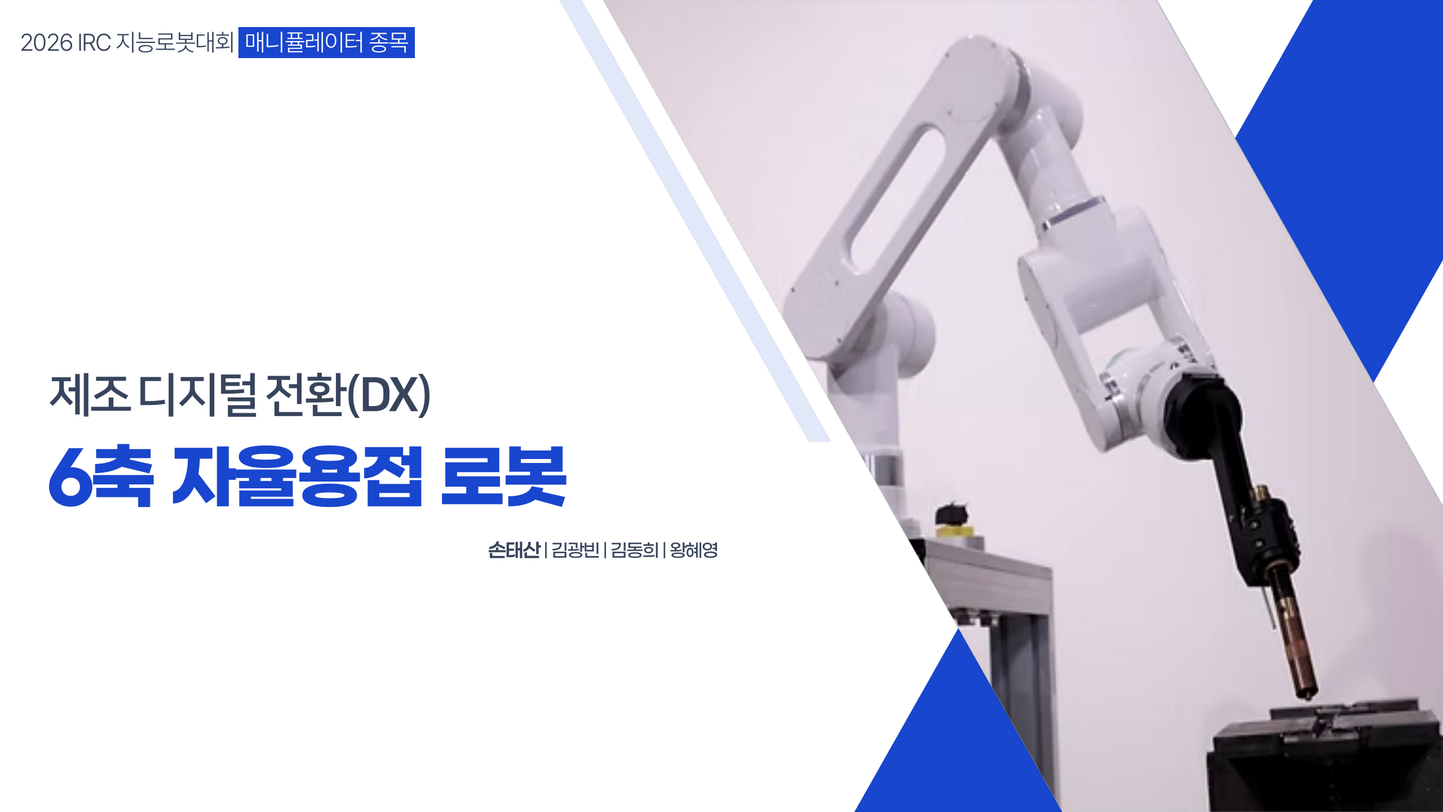
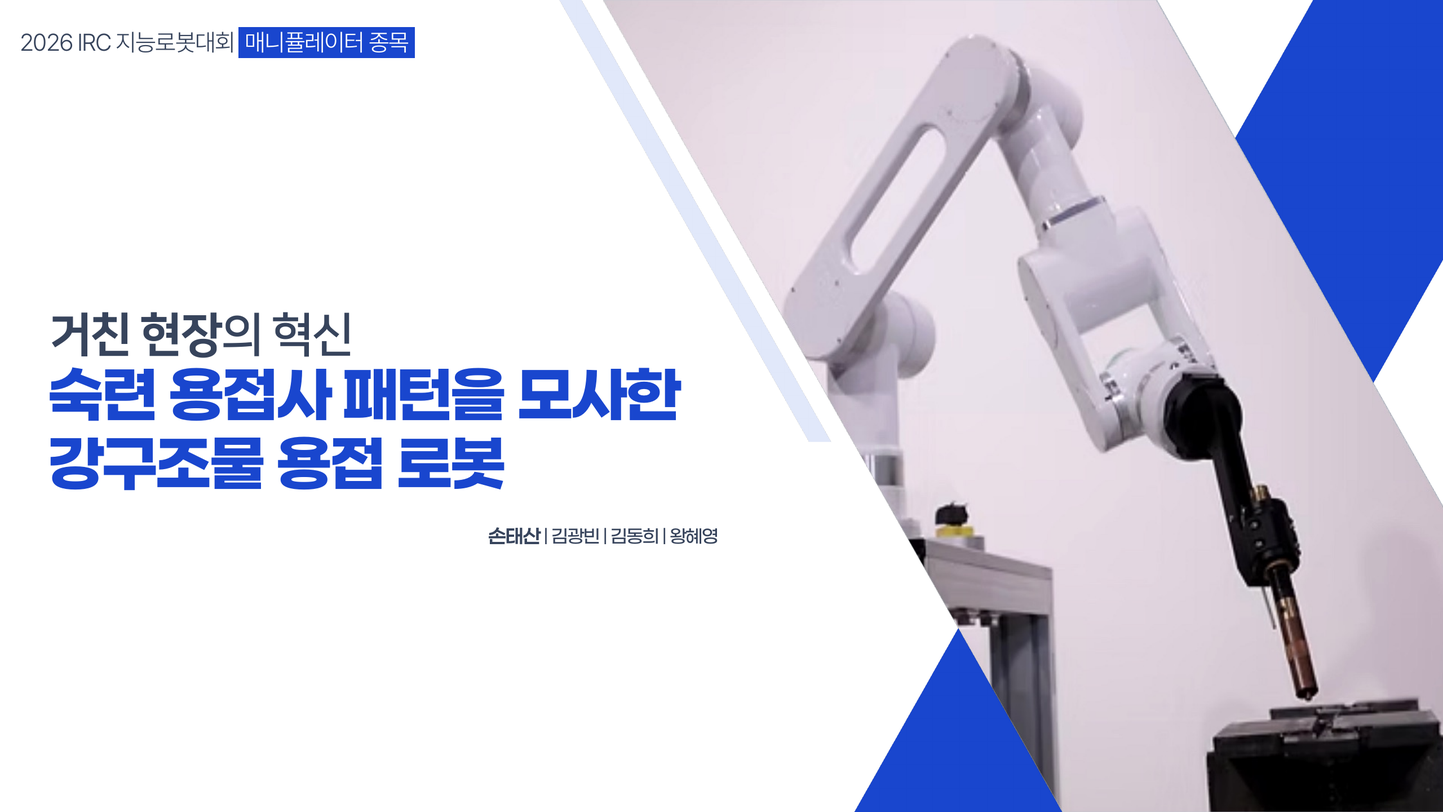
로봇 이름을 '숙련 용접사 패턴을 모사한 강구조물 용접 로봇'으로, 표지 문구를 '거친 현장의 혁신'으로
표지(1장)와 프로젝트 개요(3장) 그림, 두 페이지의 제목과 설명, 소개 페이지 첫 화면 제목을 바꿈.

Changed region(s): [[0.0312, 0.375, 0.4688, 0.625], [0.3125, 0.6562, 0.5, 0.6875]]

diff --git a/index.html b/index.html
@@ -3,7 +3,7 @@
 <head>
 <meta charset="utf-8">
 <meta name="viewport" content="width=device-width, initial-scale=1">
-<title>6축 자율용접 로봇 | 2026 IRC 지능로봇대회</title>
+<title>숙련 용접사 패턴을 모사한 강구조물 용접 로봇 | 2026 IRC 지능로봇대회</title>
 <style>
   html, body { margin: 0; height: 100%; background: #111; overflow: hidden; }
   body { font-family: -apple-system, "Apple SD Gothic Neo", sans-serif; }
@@ -49,58 +49,58 @@
 </head>
 <body>
 <main class="stage" id="stage">
-  <img class="slide" src="deck/final/01.png?v=11130955" alt="2026 IRC 지능로봇대회 매니퓰레이터 종목. 제조 디지털 전환(DX) 6축 자율용접 로봇. 손태산, 김광빈, 김동희, 왕혜영">
-  <img class="slide" src="deck/final/02.png?v=11130955" alt="목차" loading="lazy">
-  <img class="slide" src="deck/final/03.png?v=11130955" alt="1. 프로젝트 개요. 6축 자율용접 로봇. 왼쪽은 코너 시편의 용접선을 초록 레이저로 따라가는 로봇 사진" loading="lazy">
-  <img class="slide" src="deck/final/04.png?v=11130955" alt="2. 프로젝트 수행 배경: 정밀 특수공정 용접의 품질, 인력, 안전 위기. WPS 필수 제어 변수 20개 이상, 숙련 의존 정밀공정, 연령별 인력(20대 11만, 30대 27만, 40대 45만, 50대 65만, 60대 이상 46만), 용접사 평균 55세, 시공 부실과 안전 사고" loading="lazy">
-  <img class="slide" src="deck/final/05.png?v=11130955" alt="2. 프로젝트 수행 배경: 강재 적용 확대와 현장 용접 경쟁력. 고부가가치 강재 개발, 현장 용접과 시공성 확보, 적용 경쟁력 향상, 강재 적용시장 확대. 강교량 강주탑 단면도와 BOX, 강구조 건축 벽체 현장 용접 사진" loading="lazy">
-  <img class="slide" src="deck/final/06.png?v=11130955" alt="2. 프로젝트 수행 배경: 건설현장 자동 용접의 현재 기술. 수직 타워 레일식(상용화), 수평 타워 레일식(현장 적용), 원자력 압력배관 오비탈 용접(현장 적용), 수직 자동 TIG(개발 진행 중)" loading="lazy">
-  <img class="slide" src="deck/final/07.png?v=11130955" alt="2. 프로젝트 수행 배경: 센서 기반 적응형(Adaptive) 용접으로 발전. 레이저 센싱, 형상 측정, 경로 보정, 정밀 용접. 협동로봇과 레이저 센서, 레일식 수직 자동용접 현장 사진" loading="lazy">
-  <img class="slide" src="deck/final/08.png?v=11130955" alt="2. 프로젝트 수행 배경: 왜 Physical AI인가. 센서는 정밀하게 측정하고 Physical AI는 복합 상황을 판단. 한계는 두꺼운 다층 용접의 다음 패스 판단, 전체 상황 인식과 용접 구역 판단" loading="lazy">
-  <img class="slide" src="deck/final/09.png?v=11130955" alt="2. 프로젝트 수행 배경: Physical AI, 이제 건설현장으로. 기존 VLA 연구는 정형화된 실내 환경, 우리가 도전하는 건설현장은 비정형 강구조물 용접. 열악한 환경, 기술개발의 사각지대" loading="lazy">
-  <img class="slide" src="deck/final/10.png?v=11130955" alt="2. 프로젝트 수행 배경: 숙련 기술의 단절과 기존 자동용접의 한계. 실내 철골 제작공장 자동용접 사진, 강교량 야외 건설현장 사진" loading="lazy">
-  <img class="slide" src="deck/final/11.png?v=11130955" alt="3. 프로젝트 수행 필요성: 숙련 기술의 계승과 비정형 환경 대응을 위한 자율용접 기술의 필요성" loading="lazy">
+  <img class="slide" src="deck/final/01.png?v=11131055" alt="2026 IRC 지능로봇대회 매니퓰레이터 종목. 거친 현장의 혁신. 숙련 용접사 패턴을 모사한 강구조물 용접 로봇. 손태산, 김광빈, 김동희, 왕혜영">
+  <img class="slide" src="deck/final/02.png?v=11131055" alt="목차" loading="lazy">
+  <img class="slide" src="deck/final/03.png?v=11131055" alt="1. 프로젝트 개요. 숙련 용접사 패턴을 모사한 강구조물 용접 로봇. 왼쪽은 코너 시편의 용접선을 초록 레이저로 따라가는 로봇 사진" loading="lazy">
+  <img class="slide" src="deck/final/04.png?v=11131055" alt="2. 프로젝트 수행 배경: 정밀 특수공정 용접의 품질, 인력, 안전 위기. WPS 필수 제어 변수 20개 이상, 숙련 의존 정밀공정, 연령별 인력(20대 11만, 30대 27만, 40대 45만, 50대 65만, 60대 이상 46만), 용접사 평균 55세, 시공 부실과 안전 사고" loading="lazy">
+  <img class="slide" src="deck/final/05.png?v=11131055" alt="2. 프로젝트 수행 배경: 강재 적용 확대와 현장 용접 경쟁력. 고부가가치 강재 개발, 현장 용접과 시공성 확보, 적용 경쟁력 향상, 강재 적용시장 확대. 강교량 강주탑 단면도와 BOX, 강구조 건축 벽체 현장 용접 사진" loading="lazy">
+  <img class="slide" src="deck/final/06.png?v=11131055" alt="2. 프로젝트 수행 배경: 건설현장 자동 용접의 현재 기술. 수직 타워 레일식(상용화), 수평 타워 레일식(현장 적용), 원자력 압력배관 오비탈 용접(현장 적용), 수직 자동 TIG(개발 진행 중)" loading="lazy">
+  <img class="slide" src="deck/final/07.png?v=11131055" alt="2. 프로젝트 수행 배경: 센서 기반 적응형(Adaptive) 용접으로 발전. 레이저 센싱, 형상 측정, 경로 보정, 정밀 용접. 협동로봇과 레이저 센서, 레일식 수직 자동용접 현장 사진" loading="lazy">
+  <img class="slide" src="deck/final/08.png?v=11131055" alt="2. 프로젝트 수행 배경: 왜 Physical AI인가. 센서는 정밀하게 측정하고 Physical AI는 복합 상황을 판단. 한계는 두꺼운 다층 용접의 다음 패스 판단, 전체 상황 인식과 용접 구역 판단" loading="lazy">
+  <img class="slide" src="deck/final/09.png?v=11131055" alt="2. 프로젝트 수행 배경: Physical AI, 이제 건설현장으로. 기존 VLA 연구는 정형화된 실내 환경, 우리가 도전하는 건설현장은 비정형 강구조물 용접. 열악한 환경, 기술개발의 사각지대" loading="lazy">
+  <img class="slide" src="deck/final/10.png?v=11131055" alt="2. 프로젝트 수행 배경: 숙련 기술의 단절과 기존 자동용접의 한계. 실내 철골 제작공장 자동용접 사진, 강교량 야외 건설현장 사진" loading="lazy">
+  <img class="slide" src="deck/final/11.png?v=11131055" alt="3. 프로젝트 수행 필요성: 숙련 기술의 계승과 비정형 환경 대응을 위한 자율용접 기술의 필요성" loading="lazy">
   <div class="slide">
-    <img src="deck/final/12.png?v=11130955" alt="4. 개발 목표 및 차별성: 룰 베이스를 넘어 숙련 행동 학습으로. OPTi3 용접로봇 전시 시연과 실제 아크 용접 영상, 기존 룰 베이스와 본 프로젝트 비교, 최종 개발 목표" loading="lazy">
+    <img src="deck/final/12.png?v=11131055" alt="4. 개발 목표 및 차별성: 룰 베이스를 넘어 숙련 행동 학습으로. OPTi3 용접로봇 전시 시연과 실제 아크 용접 영상, 기존 룰 베이스와 본 프로젝트 비교, 최종 개발 목표" loading="lazy">
     <!-- PPT 12장 영상 자리(x 60/468, y 270, 392×294pt / 1440×810pt)에 맞춰 올린 6초~20초 구간 GIF -->
-    <img class="clip" style="left:4.1667%; top:33.333%; width:27.222%; height:36.296%;" src="deck/img/opti3_demo.gif?v=11130955" alt="OPTi3 전시 시연 6초에서 20초 구간" loading="lazy">
-    <img class="clip" style="left:32.5%; top:33.333%; width:27.222%; height:36.296%;" src="deck/img/opti3_arc.gif?v=11130955" alt="OPTi3 실제 아크 용접 6초에서 20초 구간" loading="lazy">
+    <img class="clip" style="left:4.1667%; top:33.333%; width:27.222%; height:36.296%;" src="deck/img/opti3_demo.gif?v=11131055" alt="OPTi3 전시 시연 6초에서 20초 구간" loading="lazy">
+    <img class="clip" style="left:32.5%; top:33.333%; width:27.222%; height:36.296%;" src="deck/img/opti3_arc.gif?v=11131055" alt="OPTi3 실제 아크 용접 6초에서 20초 구간" loading="lazy">
   </div>
-  <img class="slide" src="deck/final/13.png?v=11130955" alt="5. 개발 대상 및 자율 작업 시나리오: 수평 접합선에 대응하는 자율용접 작업 구현. 3면 직각 시편과 T형 필릿 시편" loading="lazy">
-  <img class="slide" src="deck/final/14.png?v=11130955" alt="6. 시스템 구성 및 하드웨어 설계: 자율용접 로봇 시스템 아키텍처. 영상은 V4L2로 캡처해 ZMQ로 나눠 주고, YOLO가 판 종류를 판정해 ACT 정책을 고르며 용접선 끝점을 표시함. 그 영상과 손목 영상으로 ACT 정책이 다음 동작을 냄. 손 검출 시 정지, 진행 표시와 영상은 FastAPI 웹 대시보드로" loading="lazy">
-  <img class="slide" src="deck/final/15.png?v=11130955" alt="6. 시스템 구성 및 하드웨어 설계: 역할을 나눈 세 가지 AI. YOLO 용접선 검출(판 종류 판정과 정책 선택, 끝점 표시), ACT 모방학습(포스코이앤씨 손태산 용접기술사가 텔레오퍼레이션으로 쌓은 용접 행동 데이터로 학습, 판 종류별 정책으로 제어), 손 검출 인터록(안전)" loading="lazy">
-  <img class="slide" src="deck/final/16.png?v=11130955" alt="6. 시스템 구성 및 하드웨어 설계: 하드웨어 설계. SolidWorks 조립 기반 6축 매니퓰레이터와 레이저 엔드이펙터 렌더, 엔드이펙터 CAD, 매니퓰레이터, 엔드이펙터, 카메라, 개선 내용" loading="lazy">
-  <img class="slide" src="deck/final/17.png?v=11130955" alt="6. 시스템 구성 및 하드웨어 설계: 직접 개선한 기술. 엔드이펙터 설계 변천 v1, v2, v3, 최종 레이저 일체형" loading="lazy">
+  <img class="slide" src="deck/final/13.png?v=11131055" alt="5. 개발 대상 및 자율 작업 시나리오: 수평 접합선에 대응하는 자율용접 작업 구현. 3면 직각 시편과 T형 필릿 시편" loading="lazy">
+  <img class="slide" src="deck/final/14.png?v=11131055" alt="6. 시스템 구성 및 하드웨어 설계: 자율용접 로봇 시스템 아키텍처. 영상은 V4L2로 캡처해 ZMQ로 나눠 주고, YOLO가 판 종류를 판정해 ACT 정책을 고르며 용접선 끝점을 표시함. 그 영상과 손목 영상으로 ACT 정책이 다음 동작을 냄. 손 검출 시 정지, 진행 표시와 영상은 FastAPI 웹 대시보드로" loading="lazy">
+  <img class="slide" src="deck/final/15.png?v=11131055" alt="6. 시스템 구성 및 하드웨어 설계: 역할을 나눈 세 가지 AI. YOLO 용접선 검출(판 종류 판정과 정책 선택, 끝점 표시), ACT 모방학습(포스코이앤씨 손태산 용접기술사가 텔레오퍼레이션으로 쌓은 용접 행동 데이터로 학습, 판 종류별 정책으로 제어), 손 검출 인터록(안전)" loading="lazy">
+  <img class="slide" src="deck/final/16.png?v=11131055" alt="6. 시스템 구성 및 하드웨어 설계: 하드웨어 설계. SolidWorks 조립 기반 6축 매니퓰레이터와 레이저 엔드이펙터 렌더, 엔드이펙터 CAD, 매니퓰레이터, 엔드이펙터, 카메라, 개선 내용" loading="lazy">
+  <img class="slide" src="deck/final/17.png?v=11131055" alt="6. 시스템 구성 및 하드웨어 설계: 직접 개선한 기술. 엔드이펙터 설계 변천 v1, v2, v3, 최종 레이저 일체형" loading="lazy">
   <div class="slide">
-    <img src="deck/final/18.png?v=11130955" alt="7. 실시간 작업 모니터링: 웹 대시보드로 보는 영상과 로봇 상태" loading="lazy">
+    <img src="deck/final/18.png?v=11131055" alt="7. 실시간 작업 모니터링: 웹 대시보드로 보는 영상과 로봇 상태" loading="lazy">
     <!-- PPT 18장 대시보드 카메라 칸에 올린 실제 화면 녹화 GIF(코너 시편, 3배속) -->
-    <img class="clip" style="left:4.7222%; top:35.0617%; width:25.9722%; height:25.9259%;" src="deck/img/corner_dash_top.gif?v=11130955" alt="상단 카메라 실제 화면. 코너 시편 용접선 두 개가 파란색에서 빨간색으로 바뀜, 3배속" loading="lazy">
-    <img class="clip" style="left:31.8056%; top:35.0617%; width:25.9722%; height:25.9259%;" src="deck/img/corner_dash_wrist.gif?v=11130955" alt="손목 카메라 실제 화면. 시편 위 초록 레이저 점, 3배속" loading="lazy">
+    <img class="clip" style="left:4.7222%; top:35.0617%; width:25.9722%; height:25.9259%;" src="deck/img/corner_dash_top.gif?v=11131055" alt="상단 카메라 실제 화면. 코너 시편 용접선 두 개가 파란색에서 빨간색으로 바뀜, 3배속" loading="lazy">
+    <img class="clip" style="left:31.8056%; top:35.0617%; width:25.9722%; height:25.9259%;" src="deck/img/corner_dash_wrist.gif?v=11131055" alt="손목 카메라 실제 화면. 시편 위 초록 레이저 점, 3배속" loading="lazy">
     <span class="camlabel" style="left:4.7222%; top:57.5309%; width:25.9722%; height:3.4568%;">상단 카메라<b>LIVE</b></span>
     <span class="camlabel" style="left:31.8056%; top:57.5309%; width:25.9722%; height:3.4568%;">손목 카메라<b>LIVE</b></span>
     <span class="tag" style="left:26.6667%; top:36.0494%; width:3.4722%; height:2.7160%;">3배속</span>
     <span class="tag" style="left:53.7500%; top:36.0494%; width:3.4722%; height:2.7160%;">3배속</span>
   </div>
   <div class="slide">
-    <img src="deck/final/19.png?v=11130955" alt="7. 실시간 작업 모니터링: YOLO 용접선 검출과 진행 표시, 성공 판정 기준" loading="lazy">
+    <img src="deck/final/19.png?v=11131055" alt="7. 실시간 작업 모니터링: YOLO 용접선 검출과 진행 표시, 성공 판정 기준" loading="lazy">
     <!-- PPT 19장 가운데 칸(진행 중)에 올린 2배속 GIF -->
-    <img class="clip" style="left:34.0278%; top:28.1481%; width:27.7778%; height:37.0370%;" src="deck/img/t_yolo_progress.gif?v=11130955" alt="T자 시편 상단 카메라 화면. 레이저가 지나간 구간의 용접선이 파란색에서 빨간색으로 바뀜, 2배속" loading="lazy">
+    <img class="clip" style="left:34.0278%; top:28.1481%; width:27.7778%; height:37.0370%;" src="deck/img/t_yolo_progress.gif?v=11131055" alt="T자 시편 상단 카메라 화면. 레이저가 지나간 구간의 용접선이 파란색에서 빨간색으로 바뀜, 2배속" loading="lazy">
     <span class="tag" style="left:57.7778%; top:29.1358%; width:3.4722%; height:2.7160%;">2배속</span>
   </div>
-  <img class="slide" src="deck/final/20.png?v=11130955" alt="7. 실시간 작업 모니터링: YOLO 추론 최적화로 2.1배 가속. PyTorch에서 ONNX, TensorRT FP16 변환, 1회 추론 시간 중앙값 8.1 ms에서 3.8 ms, 정확도 유지, ACT 정책 변환 예정" loading="lazy">
-  <img class="slide" src="deck/final/21.png?v=11130955" alt="8. ACT 기반 모방학습 및 자율 제어: 용접기술사의 텔레오퍼레이션에서 자율 실행까지. 포스코이앤씨 손태산 용접기술사가 텔레오퍼레이션으로 직접 쌓은 용접 행동 데이터로 학습. 텔레오퍼레이션, 기록, 판 종류별 ACT 학습, 자율 실행. ACT는 동작을 묶음으로 예측" loading="lazy">
+  <img class="slide" src="deck/final/20.png?v=11131055" alt="7. 실시간 작업 모니터링: YOLO 추론 최적화로 2.1배 가속. PyTorch에서 ONNX, TensorRT FP16 변환, 1회 추론 시간 중앙값 8.1 ms에서 3.8 ms, 정확도 유지, ACT 정책 변환 예정" loading="lazy">
+  <img class="slide" src="deck/final/21.png?v=11131055" alt="8. ACT 기반 모방학습 및 자율 제어: 용접기술사의 텔레오퍼레이션에서 자율 실행까지. 포스코이앤씨 손태산 용접기술사가 텔레오퍼레이션으로 직접 쌓은 용접 행동 데이터로 학습. 텔레오퍼레이션, 기록, 판 종류별 ACT 학습, 자율 실행. ACT는 동작을 묶음으로 예측" loading="lazy">
   <div class="slide">
-    <img src="deck/final/22.png?v=11130955" alt="9. 자율 용접 시연: 임의 배치 시편 자율용접 시연, 확인 항목 8개, 시연 시편(T자 필릿, 3면 직각)" loading="lazy">
+    <img src="deck/final/22.png?v=11131055" alt="9. 자율 용접 시연: 임의 배치 시편 자율용접 시연, 확인 항목 8개, 시연 시편(T자 필릿, 3면 직각)" loading="lazy">
     <!-- PPT 22장 시연 영상 자리(1440×810pt 기준)에 올린 2배속 GIF와 배속 표시 -->
-    <img class="clip" style="left:8.2509%; top:29.1358%; width:22.8602%; height:42.4691%;" src="deck/img/t_demo.gif?v=11130955" alt="T자 필릿 시편 자율용접 시연, 2배속" loading="lazy">
-    <img class="clip" style="left:32.7778%; top:29.1358%; width:22.8602%; height:42.4691%;" src="deck/img/corner_demo.gif?v=11130955" alt="3면 직각 코너 시편 자율용접 시연, 2배속" loading="lazy">
+    <img class="clip" style="left:8.2509%; top:29.1358%; width:22.8602%; height:42.4691%;" src="deck/img/t_demo.gif?v=11131055" alt="T자 필릿 시편 자율용접 시연, 2배속" loading="lazy">
+    <img class="clip" style="left:32.7778%; top:29.1358%; width:22.8602%; height:42.4691%;" src="deck/img/corner_demo.gif?v=11131055" alt="3면 직각 코너 시편 자율용접 시연, 2배속" loading="lazy">
     <span class="tag" style="left:27.0833%; top:30.1235%; width:3.4722%; height:2.7160%;">2배속</span>
     <span class="tag" style="left:51.6102%; top:30.1235%; width:3.4722%; height:2.7160%;">2배속</span>
   </div>
-  <img class="slide" src="deck/final/23.png?v=11130955" alt="9. 자율 용접 시연: 성공 판정 기준. 시편 인식, 시작점 접근, 토치 거리 유지, 레이저 ON, 용접선 추종, 종료점 도달, 레이저 OFF, 원위치 복귀의 8개 항목을 모두 통과해야 성공. 용접선 추종은 경로 이탈 5mm 이하와 용접선의 90% 이상이 빨간색으로 바뀌는 것" loading="lazy">
-  <img class="slide" src="deck/final/24.png?v=11130955" alt="9. 자율 용접 시연: 시연 결과. 학습한 배치 40회 중 39회(97.5%), 처음 보는 배치 40회 중 37회(92.5%) 성공. 성공 기준은 8개 판정 항목을 모두 통과한 시도. 인터록 반응 시간 최대 약 100 ms(계산값)" loading="lazy">
-  <img class="slide" src="deck/final/25.png?v=11130955" alt="10. 결론 및 향후 과제" loading="lazy">
-  <img class="slide" src="deck/final/26.png?v=11130955" alt="10. 결론 및 향후 과제: 한계점과 향후 과제, 홈페이지 QR 코드" loading="lazy">
+  <img class="slide" src="deck/final/23.png?v=11131055" alt="9. 자율 용접 시연: 성공 판정 기준. 시편 인식, 시작점 접근, 토치 거리 유지, 레이저 ON, 용접선 추종, 종료점 도달, 레이저 OFF, 원위치 복귀의 8개 항목을 모두 통과해야 성공. 용접선 추종은 경로 이탈 5mm 이하와 용접선의 90% 이상이 빨간색으로 바뀌는 것" loading="lazy">
+  <img class="slide" src="deck/final/24.png?v=11131055" alt="9. 자율 용접 시연: 시연 결과. 학습한 배치 40회 중 39회(97.5%), 처음 보는 배치 40회 중 37회(92.5%) 성공. 성공 기준은 8개 판정 항목을 모두 통과한 시도. 인터록 반응 시간 최대 약 100 ms(계산값)" loading="lazy">
+  <img class="slide" src="deck/final/25.png?v=11131055" alt="10. 결론 및 향후 과제" loading="lazy">
+  <img class="slide" src="deck/final/26.png?v=11131055" alt="10. 결론 및 향후 과제: 한계점과 향후 과제, 홈페이지 QR 코드" loading="lazy">
 </main>
 
 <div class="bar">

diff --git a/project.html b/project.html
@@ -3,8 +3,8 @@
 <head>
 <meta charset="utf-8">
 <meta name="viewport" content="width=device-width, initial-scale=1">
-<title>6축 자율용접 로봇 | 2026 IRC 지능로봇대회</title>
-<meta name="description" content="숙련 용접사의 시연을 ACT 모방학습으로 배우는 6축 자율용접 로봇. 구성, 부품 파일, 학습 방법, 개발 기록.">
+<title>숙련 용접사 패턴을 모사한 강구조물 용접 로봇 | 2026 IRC 지능로봇대회</title>
+<meta name="description" content="숙련 용접사 패턴을 모사한 강구조물 용접 로봇. 숙련 용접사의 시연을 ACT 모방학습으로 배움. 구성, 부품 파일, 학습 방법, 개발 기록.">
 <link rel="stylesheet" href="https://cdn.jsdelivr.net/gh/orioncactus/pretendard@v1.3.9/dist/web/static/pretendard.min.css">
 <style>
   :root {
@@ -70,7 +70,7 @@
 <header>
   <div class="wrap">
     <span class="tag">2026 IRC 지능로봇대회 매니퓰레이터 종목</span>
-    <h1>숙련 용접사의 시연을 배우는<br>6축 자율용접 로봇</h1>
+    <h1>숙련 용접사 패턴을 모사한<br>강구조물 용접 로봇</h1>
     <p>숙련 용접사의 기술을 데이터로 축적하고, Physical AI로 계승한다</p>
     <div class="team">손태산, 김광빈, 김동희, 왕혜영</div>
     <div class="btns">
@@ -102,7 +102,7 @@
   <h2><small>01</small>무엇을 만들었나</h2>
   <div class="two">
     <figure>
-      <img class="tall" src="project/img/robot_corner_laser.jpg?v=11130955" alt="자체 제작 6축 로봇이 코너 시편의 용접선을 초록 레이저로 따라가는 장면" loading="lazy">
+      <img class="tall" src="project/img/robot_corner_laser.jpg?v=11131055" alt="자체 제작 6축 로봇이 코너 시편의 용접선을 초록 레이저로 따라가는 장면" loading="lazy">
       <figcaption>코너 시편의 용접선을 레이저로 따라가는 자체 제작 6축 로봇</figcaption>
     </figure>
     <div>
@@ -126,7 +126,7 @@
 <section id="system">
   <h2><small>02</small>시스템 구성</h2>
   <figure>
-    <img src="project/img/architecture.png?v=11130955" alt="시스템 구성도. 카메라 영상은 V4L2로 캡처해 ZMQ로 나눠 줌. YOLO가 판 종류를 판정해 ACT 정책을 고르고 용접선 끝점을 표시하며, 그 영상과 손목 카메라 영상이 ACT 정책으로 들어감. 정책의 목표 관절값이 서보 제어를 거쳐 6축 매니퓰레이터와 엔드이펙터로 전달됨. 손 검출 시 정지, 진행 표시와 영상은 FastAPI 웹 대시보드로 전송" loading="lazy">
+    <img src="project/img/architecture.png?v=11131055" alt="시스템 구성도. 카메라 영상은 V4L2로 캡처해 ZMQ로 나눠 줌. YOLO가 판 종류를 판정해 ACT 정책을 고르고 용접선 끝점을 표시하며, 그 영상과 손목 카메라 영상이 ACT 정책으로 들어감. 정책의 목표 관절값이 서보 제어를 거쳐 6축 매니퓰레이터와 엔드이펙터로 전달됨. 손 검출 시 정지, 진행 표시와 영상은 FastAPI 웹 대시보드로 전송" loading="lazy">
   </figure>
   <ul class="plain">
     <li>카메라 2대(상단, 손목) 영상을 V4L2로 직접 캡처해 ZMQ로 여러 프로세스에 나눠 줍니다.</li>
@@ -157,7 +157,7 @@
   <h3>엔드이펙터 출력 파일</h3>
   <div class="two">
     <figure>
-      <img src="project/img/ee_cad.png?v=11130955" alt="최종 레이저 일체형 엔드이펙터 CAD. 서보와 본체, 레이저 포인터를 잡는 집게와 브래킷" loading="lazy">
+      <img src="project/img/ee_cad.png?v=11131055" alt="최종 레이저 일체형 엔드이펙터 CAD. 서보와 본체, 레이저 포인터를 잡는 집게와 브래킷" loading="lazy">
       <figcaption>최종 레이저 일체형 엔드이펙터</figcaption>
     </figure>
     <div>
@@ -181,7 +181,7 @@
   <h2><small>04</small>엔드이펙터 개선 과정</h2>
   <div class="two">
     <figure>
-      <img src="project/img/ee_torch_old.jpg?v=11130955" alt="1차 설계인 OPTi3 축소 토치형 엔드이펙터 CAD. 토치 옆에 레이저와 서보가 달려 있음" loading="lazy">
+      <img src="project/img/ee_torch_old.jpg?v=11131055" alt="1차 설계인 OPTi3 축소 토치형 엔드이펙터 CAD. 토치 옆에 레이저와 서보가 달려 있음" loading="lazy">
       <figcaption>1차 설계: OPTi3 축소 토치형 (토치 단축, 레이저 후퇴 적용 후)</figcaption>
     </figure>
     <div>
@@ -262,26 +262,26 @@
   <p class="lead">임의로 놓은 시편을 로봇이 스스로 찾아 용접선을 따라가는 장면입니다. 휴대폰으로 찍은 영상을 2배속 GIF로 줄였습니다.</p>
   <div class="two">
     <figure>
-      <img src="deck/img/t_demo.gif?v=11130955" alt="T자 필릿 시편 자율용접 시연. 로봇이 일어나 시편에 다가가 초록 레이저로 용접선을 따라감, 2배속" loading="lazy">
+      <img src="deck/img/t_demo.gif?v=11131055" alt="T자 필릿 시편 자율용접 시연. 로봇이 일어나 시편에 다가가 초록 레이저로 용접선을 따라감, 2배속" loading="lazy">
       <figcaption>T자 필릿 시편 (2배속)</figcaption>
     </figure>
     <figure>
-      <img src="deck/img/corner_demo.gif?v=11130955" alt="3면 직각 코너 시편 자율용접 시연. 코너 안쪽 용접선을 초록 레이저로 따라감, 2배속" loading="lazy">
+      <img src="deck/img/corner_demo.gif?v=11131055" alt="3면 직각 코너 시편 자율용접 시연. 코너 안쪽 용접선을 초록 레이저로 따라감, 2배속" loading="lazy">
       <figcaption>3면 직각 코너 시편 (2배속)</figcaption>
     </figure>
   </div>
   <h3>YOLO 용접선 진행 표시 (실제 상단 카메라 화면)</h3>
   <div class="three">
     <figure>
-      <img src="project/img/yolo_before.png?v=11130955" alt="용접 전. 검출된 용접선 전체가 파란색" loading="lazy">
+      <img src="project/img/yolo_before.png?v=11131055" alt="용접 전. 검출된 용접선 전체가 파란색" loading="lazy">
       <figcaption>용접 전: 검출된 용접선 전체가 파란색</figcaption>
     </figure>
     <figure>
-      <img src="deck/img/t_yolo_progress.gif?v=11130955" alt="진행 중. 레이저가 지나간 구간만 빨간색으로 바뀜, 2배속" loading="lazy">
+      <img src="deck/img/t_yolo_progress.gif?v=11131055" alt="진행 중. 레이저가 지나간 구간만 빨간색으로 바뀜, 2배속" loading="lazy">
       <figcaption>진행 중: 레이저가 지나간 구간만 빨간색 (2배속)</figcaption>
     </figure>
     <figure>
-      <img src="project/img/yolo_done.png?v=11130955" alt="완료. 용접선 전 구간이 빨간색" loading="lazy">
+      <img src="project/img/yolo_done.png?v=11131055" alt="완료. 용접선 전 구간이 빨간색" loading="lazy">
       <figcaption>완료: 용접선 전 구간이 빨간색</figcaption>
     </figure>
   </div>
